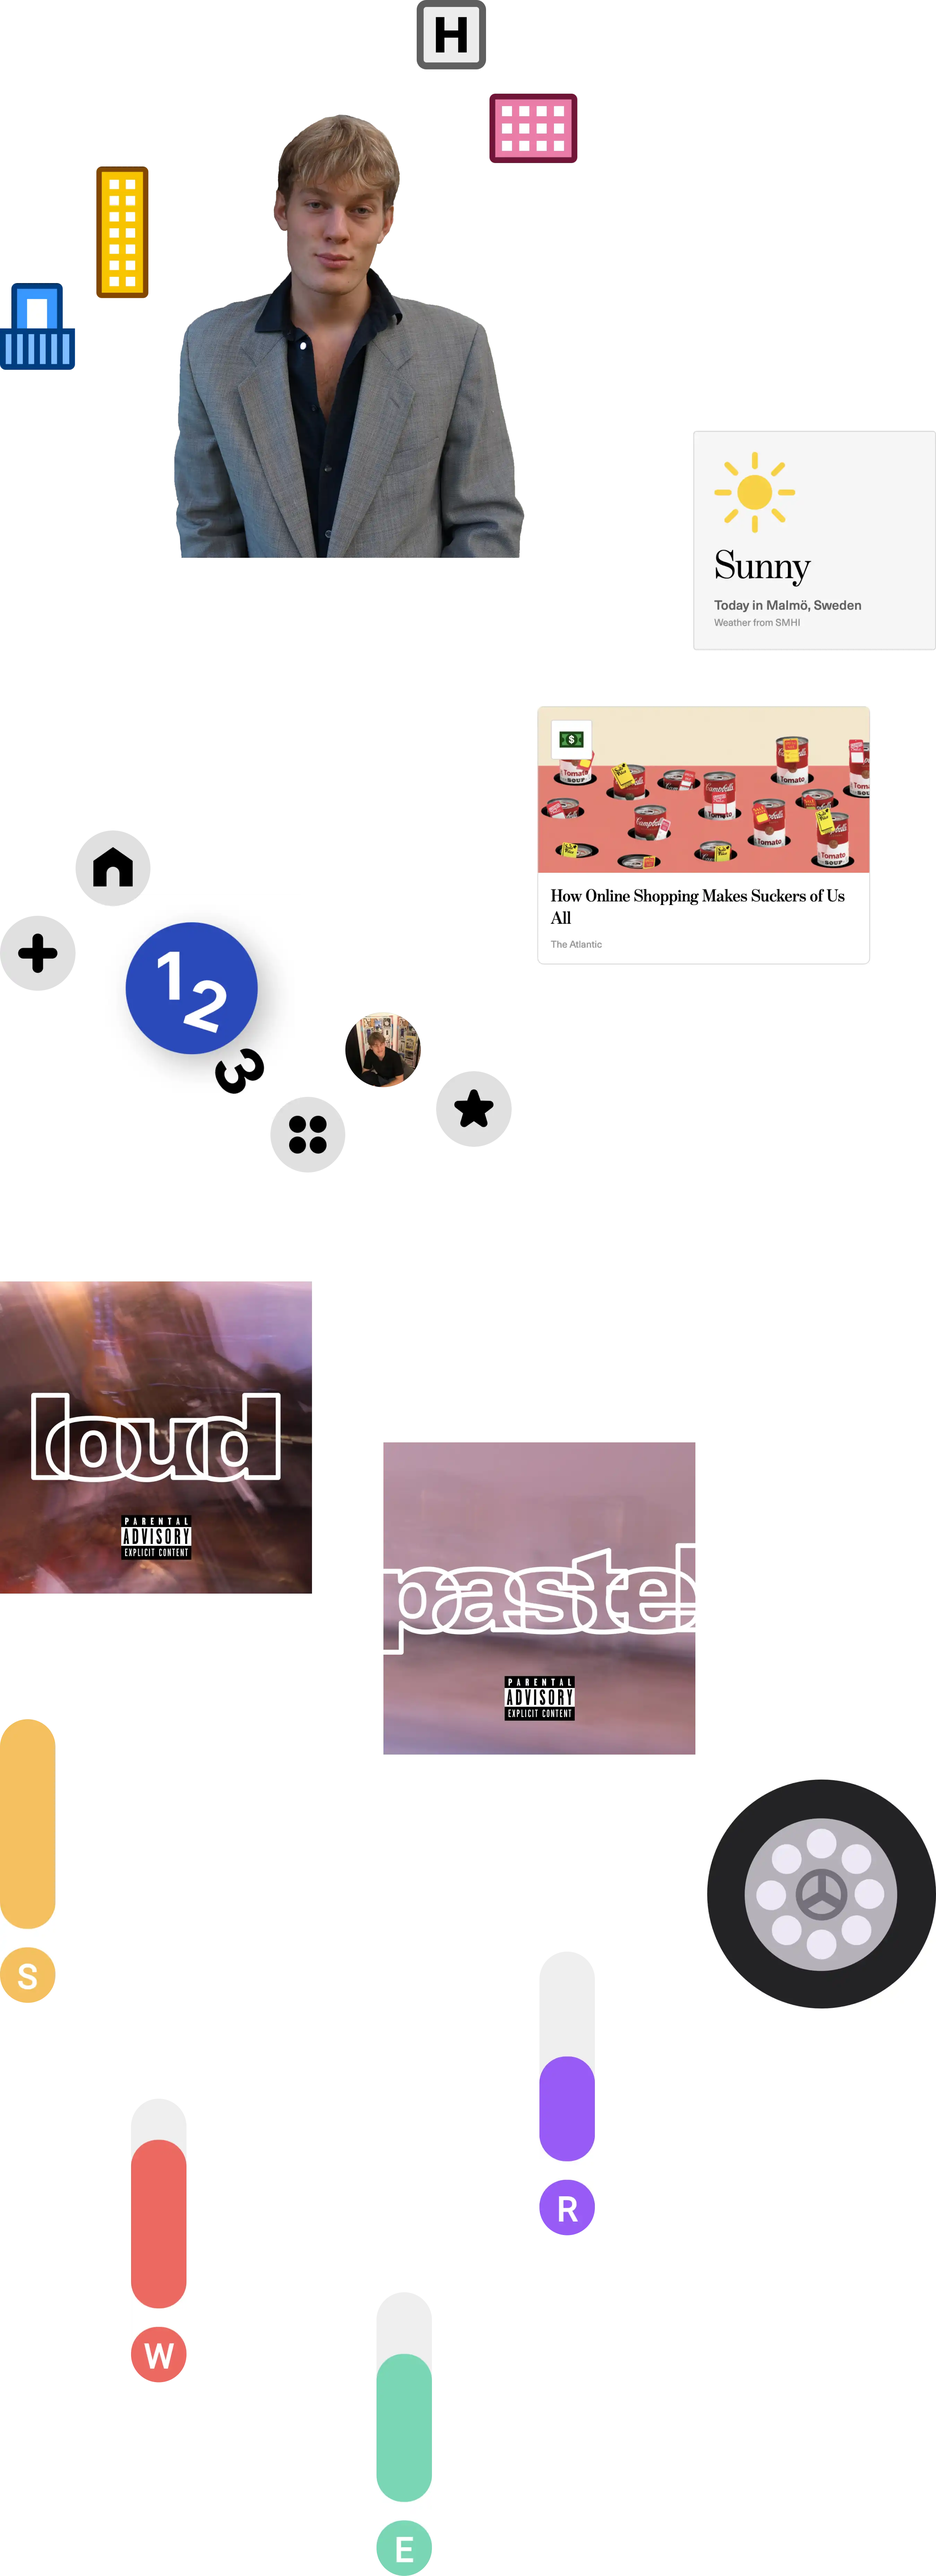
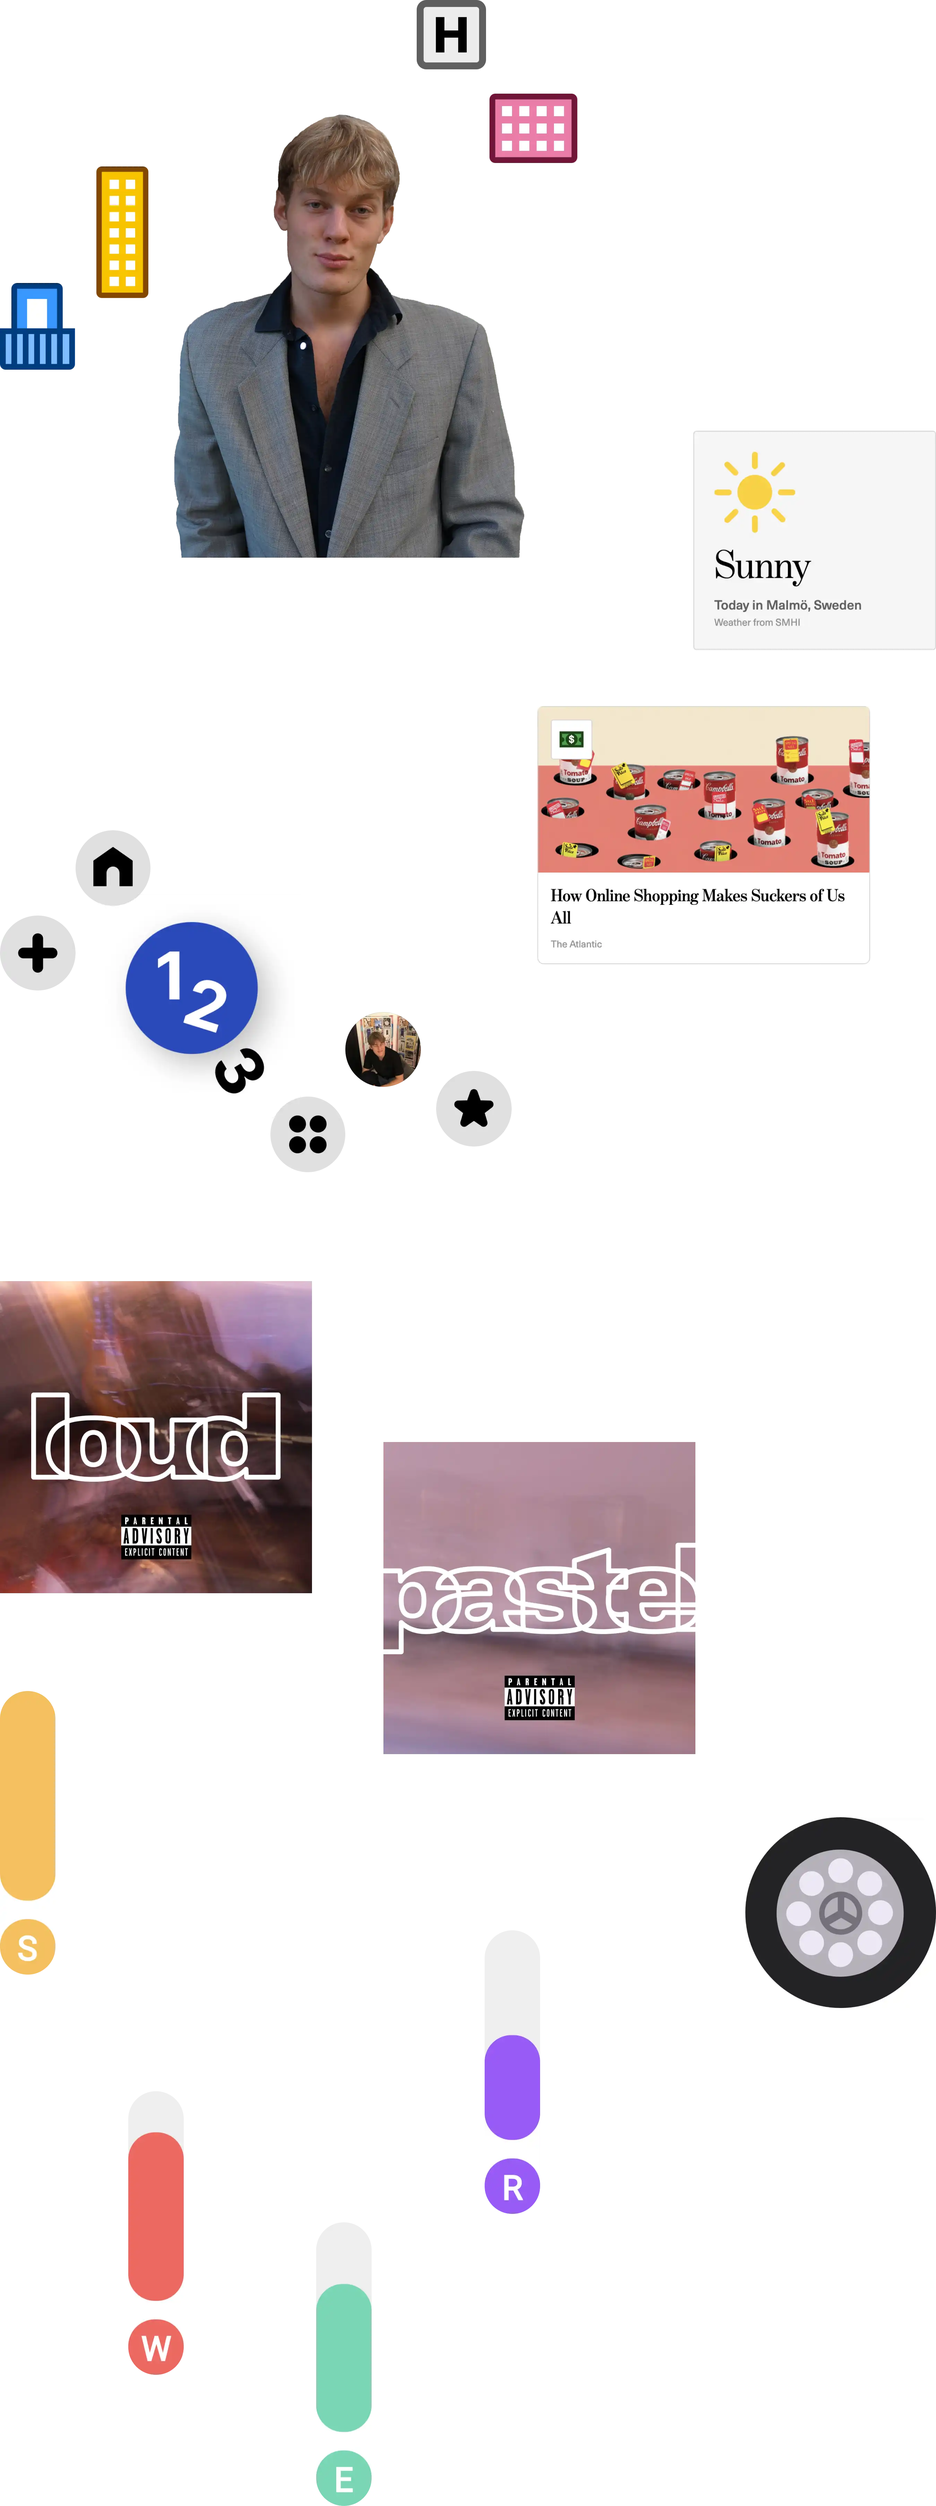
Placeholders

diff --git a/fall20'/index.html b/fall20'/index.html
@@ -94,7 +94,7 @@
 			<p-scaled-parent id='intro-height-applied'>
 				<p-scaled id='intro'>
 					<p-content-height id='intro-height'>
-						<img class='lazy' src='placeholder.png' data-src='intro.webp' alt='A mishmash of design'>
+						<img class='lazy introImage' src='introPlaceholder.svg' data-src='intro.webp' alt='A mishmash of design'>
 						<p-row id='introContent'>
 							<p-content-small>
 								<h2 class='mediumTitle introMediumTitle' style='right: -50px; top: 440px;'>

diff --git a/fall20'/style.css b/fall20'/style.css
@@ -252,7 +252,12 @@ p-dark-section p	{
 	width: 1350px;
 	margin-top: 100px;
 	pointer-events: none;
-	height: 3713px;
+	height: 3613px;
+}
+
+#introImage	{
+	height: 3613px;
+	width: 1350px;
 }
 
 #introContent	{
